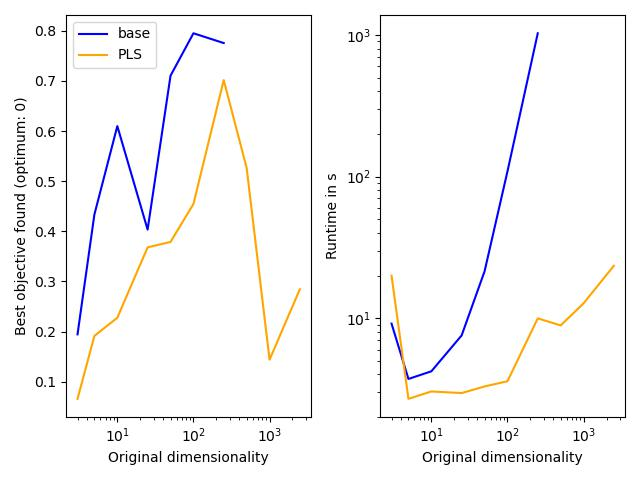
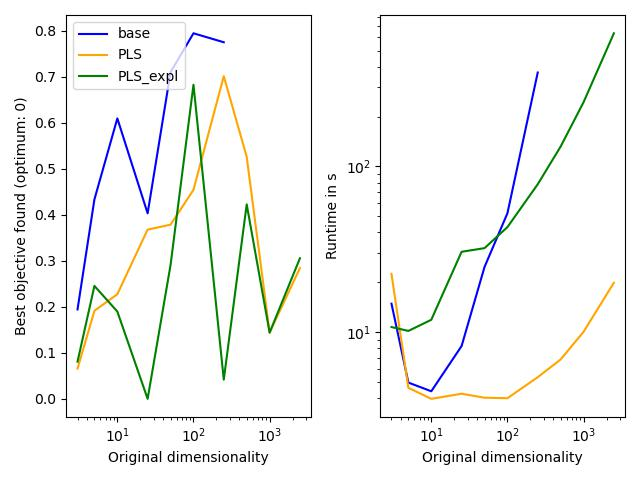
CUATRO_PLS_expl

diff --git a/CUATRO/samplers/sampling.py b/CUATRO/samplers/sampling.py
@@ -23,18 +23,57 @@ def sample_LHS(sim, bounds, N, rnd_seed = 1):
     
     return data_points, func_eval, g_eval, feas
 
-a = 0.1
-def sample_points_opt(center, radius, f, samples, bounds, N = 10): ## TODO: Check that this does not give too many points
+
+def sample_points_expl(center, f, samples, bounds, a = 0.1, N = 10): 
     # used for:
     # base, sampling_region, exploit_explore
     new_samples = np.array([center])
     
     while len(new_samples) < N + 1:
             
-        def closest_distance_edge(x):  
-            nearest_distance_to_sample = min([np.linalg.norm(x-s) for s in samples])
-            distance_to_edge = radius - np.linalg.norm(x-center)
-            nearest_distance = min(nearest_distance_to_sample, distance_to_edge/a)
+        def closest_distance_edge(x, a=a):  
+            nearest_distance_to_sample = min([np.linalg.norm(x-np.array(s)) for s in samples])
+            bounds_dist = min([min(x[i] - bounds[i,0] , bounds[i,1] - x[i]) \
+                        for i in range(len(center))])
+            nearest_distance = min(nearest_distance_to_sample, bounds_dist/a)
+            return -nearest_distance
+        
+        initial_points = LHS(bounds, min(2000, 100*len(bounds))).T
+        # print(initial_points[:4])
+        closest_distances = [closest_distance_edge(p) for p in initial_points]
+        ind_best_distance = np.argmin(closest_distances)
+        s_0 = initial_points[ind_best_distance]
+        # print(closest_distances[ind_best_distance], s_0)
+                
+        # s_i = minimize(closest_distance_edge, s_0, bounds=bounds, method='Powell', options={'maxfev': 2000}).x
+        # s_i = minimize(closest_distance_edge, s_0, bounds=bounds, method='Nelder-Mead', options={'maxfev': 2000}).x
+
+        s_i = s_0
+
+        new_samples = np.vstack((new_samples,s_i))
+        samples = np.vstack((samples,s_i))
+        # print(closest_distance_edge(s_i))
+    
+    new_samples = new_samples[1:] # Removing the center from samples
+    func_eval, g_eval, feas = sample_simulation(new_samples.tolist(), f)
+    
+    return new_samples, func_eval, g_eval, feas
+
+
+def sample_points_opt(center, radius, f, samples, bounds, a = 0.1, N = 10): 
+    # used for:
+    # base, sampling_region, exploit_explore
+    new_samples = np.array([center])
+    
+    while len(new_samples) < N + 1:
+            
+        def closest_distance_edge(x, a=a):  
+            nearest_distance_to_sample = min([np.linalg.norm(x-np.array(s)) for s in samples])
+            distance_to_edge = radius - np.linalg.norm(x-np.array(center))
+            bounds_dist = min([min(x[i] - bounds[i,0] , bounds[i,1] - x[i]) \
+                        for i in range(len(center))])
+            # nearest_distance = min(nearest_distance_to_sample, distance_to_edge/a, bounds_dist/a)
+            nearest_distance = nearest_distance_to_sample
             return -nearest_distance
         def bounds_const(x): 
             return min([min(x[i] - bounds[i,0] , bounds[i,1] - x[i]) \
@@ -59,13 +98,13 @@ def sample_points_opt(center, radius, f, samples, bounds, N = 10): ## TODO: Chec
     
     return new_samples, func_eval, g_eval, feas
 
-def sample_points_feas_samp(center, radius, f, samples, bounds, ineq_coeff, N = 10):
+def sample_points_feas_samp(center, radius, f, samples, bounds, ineq_coeff, a=0.1, N = 10):
     
     new_samples = np.array([center])
     
     while len(new_samples) < N + 1:
         
-        def closest_distance_edge(x):  
+        def closest_distance_edge(x, a=a):  
             nearest_distance_to_sample = min([np.linalg.norm(x-s) for s in samples])
             distance_to_edge = radius - np.linalg.norm(x-center)
             nearest_distance = min(nearest_distance_to_sample, distance_to_edge/a)
@@ -106,7 +145,7 @@ def sample_points_feas_samp(center, radius, f, samples, bounds, ineq_coeff, N = 
     
     return new_samples, func_eval, g_eval, feas
 
-def sample_points_TIS(center, radius, f, samples, bounds, ineq_coeff, N = 10, \
+def sample_points_TIS(center, radius, f, samples, bounds, ineq_coeff, a=0.1, N = 10, \
                       ineq = False):
     
     new_samples = np.array([center])
@@ -116,7 +155,7 @@ def sample_points_TIS(center, radius, f, samples, bounds, ineq_coeff, N = 10, \
         # until the length is N+1 and then remove the centre
         while len(new_samples) < N + 1:
             
-            def closest_distance_edge(x):  
+            def closest_distance_edge(x, a=a):  
                 nearest_distance_to_sample = min([np.linalg.norm(x-s) for s in samples])
                 distance_to_edge = radius - np.linalg.norm(x-center)
                 nearest_distance = min(nearest_distance_to_sample, distance_to_edge/a)
@@ -158,7 +197,7 @@ def sample_points_TIS(center, radius, f, samples, bounds, ineq_coeff, N = 10, \
     
     return new_samples, func_eval, g_eval, feas
 
-def sample_points_TIP(center, radius, f, samples, ineq_list, bounds, N = 10, \
+def sample_points_TIP(center, radius, f, samples, ineq_list, bounds, a=0.1, N = 10, \
                       ineq_active = False):
     
     # Because we initialise new_samples with the center, we find new_samples
@@ -167,7 +206,7 @@ def sample_points_TIP(center, radius, f, samples, ineq_list, bounds, N = 10, \
     
     while len(new_samples) < N + 1:
         
-        def closest_distance_edge(x):  
+        def closest_distance_edge(x, a=a):  
             nearest_distance_to_sample = min([np.linalg.norm(x-s) for s in samples])
             distance_to_edge = radius - np.linalg.norm(x-center)
             nearest_distance = min(nearest_distance_to_sample, distance_to_edge/a)

diff --git a/CUATRO/optimizer/implementations/dim_red_heuristics/CUATRO_PLS_explore.py b/CUATRO/optimizer/implementations/dim_red_heuristics/CUATRO_PLS_explore.py
@@ -6,7 +6,7 @@ Created on Sun Jan 17 21:12:38 2021
 """
 
 import CUATRO.utilities as ut
-from CUATRO.samplers.sampling import sample_LHS, sample_points
+from CUATRO.samplers.sampling import sample_LHS, sample_points, sample_points_expl
 from CUATRO.minimise_methods.minimise import minimise, minimise_PLS
 from CUATRO.optimizer.CUATRO_optimizer_use import CUATRO
 
@@ -23,7 +23,7 @@ from typing import Optional
 
 warnings.filterwarnings('ignore')
 
-class CUATRO_PLS(CUATRO):
+class CUATRO_PLS_expl(CUATRO):
     def __init__(self):
         super().__init__()
         
@@ -36,18 +36,20 @@ class CUATRO_PLS(CUATRO):
         max_f_eval: int = 100,
         rnd: int = 1,
         n_pls: int = None, # effective dimensionality inputted to pls
+        n_t: int = 5,
         prior_evals: dict = {'X_samples_list' : [], 'f_eval_list': [], 'g_eval_list': [], 'bounds': [], 'x0_method': 'best eval'}
     ):
 
         if not (constraints is None or constraints in [[], [0]]):
             raise NotImplementedError("CUATRO_PLS is not yet implemented for explicit constraint handling \n Use soft penalizations to handle constraints and set constraints to None")
 
-        if prior_evals['g_eval_list']!= []:
-            raise NotImplementedError("CUATRO_PLS is not yet implemented for explicit constraint handling \n g_eval_list in prior_evals should be an empty list")
-    
+        traj_budget = int(max_f_eval/n_t)
 
         if n_pls is None: # if no knowledge about n_e is given, use heuristics to determine effective dim.
             n_pls = int(max_f_eval / 10)
+
+        if prior_evals['g_eval_list']!= []:
+            raise NotImplementedError("CUATRO_PLS is not yet implemented for explicit constraint handling \n g_eval_list in prior_evals should be an empty list")
 
         if (len(prior_evals['X_samples_list']) == 0) and (not (isinstance(x0, np.ndarray))):
             raise ValueError("You've specified neither prior function evaluations nor a valid x0 array")
@@ -220,6 +222,9 @@ class CUATRO_PLS(CUATRO):
     
         # t1 = time.process_time() 
         # t_it = []; t_center_select = []; t_sample = []; t_minimise = []
+
+        traj_counter = 0
+
         while ((len(f_eval_list) - len(prior_evals['f_eval_list'])) < max_f_eval - 1)  and (radius > self.tolerance):
             # ti = time.process_time()
             N_evals = len(f_eval_list) - len(prior_evals['f_eval_list'])
@@ -348,6 +353,53 @@ class CUATRO_PLS(CUATRO):
             # t_minimise += [time.process_time()-tiii]  
             N += 1
             # t_it += [time.process_time() - ti] # Processing time at each iteration
+
+            if (len(f_eval_list) - len(prior_evals['f_eval_list'])) >= (traj_counter+1)*traj_budget:
+                
+                traj_counter += 1
+                # compute radius of sphere encompassing all bounds from center of search space
+                bounds_dummy = np.array([(b[1]-b[0])/2 for b in bounds])
+                two_biggest = np.sort(bounds_dummy)[::-1][:2]
+                dummy_radius = np.sqrt(two_biggest[0]**2+two_biggest[1]**2) if len(bounds) >= 2 else two_biggest[0]
+                # sample new starting point that is furthest away from current samples but not too close to the bounds
+                center_dummy = np.array([(b[1]+b[0])/2 for b in bounds])
+
+                X_samples, y_samples, g_eval, feas_samples =  sample_points_expl(center_dummy,  sim, \
+                                                                            X_samples_list, \
+                                                                            bounds, a=1, N = 1)
+
+                center = X_samples.squeeze()
+                center = [float(c) for c in center]
+
+                feas_new_X = X_samples.copy()[feas_samples == 1]
+                infeas_new_X = X_samples.copy()[feas_samples != 1]
+
+                no_of_feas_X += len(feas_new_X)
+                no_of_infeas_X += len(infeas_new_X)
+
+                X_samples_list += X_samples.tolist()
+                f_eval_list += y_samples
+                g_eval_list += g_eval
+
+                radius = self.init_radius
+
+                X_in_trust, y_in_trust, g_in_trust, feas_in_trust = ut.samples_in_trust(center, radius, 
+                                                                    X_samples_list, f_eval_list, g_eval_list)
+
+                old_trust = center
+                old_f = float(y_samples[0])
+
+                # print(X_samples, center_dummy, dummy_radius, bounds[0])
+
+                # print(len(X_samples_list))
+        
+                # import matplotlib.pyplot as plt
+                # plt.clf()
+                # plt.scatter(np.array(X_samples_list)[:-1,0], np.array(X_samples_list)[:-1,1], c='k')
+                # plt.scatter(center[0], center[1], c='r')
+                # plt.show()
+
+
 
         N_evals = len(f_eval_list) - len(prior_evals['f_eval_list'])
         radius_list += [radius] 

diff --git a/test/test_pls.py b/test/test_pls.py
@@ -65,13 +65,14 @@ conv_rad = 0.01
 bounds = np.array([(-5.0, 5.0) for i in range(N_high)])
 x0 = np.array([(b[0] + b[1])/2 for b in bounds]) 
 init_radius = np.max([(b[1] - b[0])/5 for b in bounds]) ## change back
+n_t = 5
 beta = 1e-3**(1/N)
 N_min_s = N/10
 tol= 1e-8
 
 CUATRO_inst = CUATRO(sampling='g', explore=None, method='local', N_min_samples=6, beta_red=beta, tolerance=tol, init_radius=init_radius, dim_red=True)
+CUATRO_PLS_expl = CUATRO(sampling='base', explore=None, method='local', N_min_samples=6, beta_red=beta, tolerance=tol, init_radius=init_radius, dim_red=True)
 CUATRO_bench = CUATRO(sampling='g', explore=None, method='local', N_min_samples=N_min_s, beta_red=beta, tolerance=tol, init_radius=init_radius)
-
 
 f_RB = partial(sim, N_high)
 f_quadr = partial(sim_quadr, N_high)
@@ -85,7 +86,6 @@ class TestConvergence_PLS_CUATRO(unittest.TestCase):
         res_bench = CUATRO_bench.run_optimiser(sim=f_RB, x0=x0, bounds=bounds, max_f_eval=N, rnd=0)
         print(f"Best objective found: {res['f_best_so_far'][-1]} compared to baseline CUATRO {res_bench['f_best_so_far'][-1]}")
         self.assertTrue((res['f_best_so_far'][-1]  < res_bench['f_best_so_far'][-1]), f"CUATRO_PLS did not outperform CUATRO_g at high dimension: {res['f_best_so_far'][-1]} > {res_bench['f_best_so_far'][-1]}")
-    
 
 class TestConvergence_PLS_quadr(unittest.TestCase):   
     def runTest(self):
@@ -95,6 +95,13 @@ class TestConvergence_PLS_quadr(unittest.TestCase):
         res = CUATRO_inst.run_optimiser(sim=f_quadr, x0=x0, bounds=bounds, max_f_eval=N, rnd=0, n_pls=N_pls)
         print(f"Objective: {res['f_best_so_far'][-1]}")
         self.assertTrue((abs(res['f_best_so_far'][-1] - optimum)**2 < conv_rad), f"CUATRO_g did not converge to {conv_rad} accuracy for a budget of {N}; best_f: {res['f_best_so_far'][-1]}, optimum: {optimum}")
-        
-        
+
+class TestConvergence_PLS_expl_quadr(unittest.TestCase):   
+    def runTest(self):
+        """
+        check whether convergence is achieved for the quadratic test function in high dimensions
+        """  
+        res = CUATRO_PLS_expl.run_optimiser(sim=f_quadr, x0=x0, bounds=bounds, max_f_eval=N, rnd=0, n_pls=N_pls, n_t=n_t)
+        print(f"Objective: {res['f_best_so_far'][-1]}")
+        self.assertTrue((abs(res['f_best_so_far'][-1] - optimum)**2 < conv_rad), f"CUATRO_g did not converge to {conv_rad} accuracy for a budget of {N}; best_f: {res['f_best_so_far'][-1]}, optimum: {optimum}")
 

diff --git a/CUATRO/demos/run_PLS.py b/CUATRO/demos/run_PLS.py
@@ -25,11 +25,13 @@ fig, (ax1, ax2) = plt.subplots(1, 2)
 perf_res = {
     'base': [],
     'PLS': [],
+    'PLS_expl': [],
 }
 
 time_res = {
     'base': [],
     'PLS': [],
+    'PLS_expl': [],
 }
 
 for dim in dims:
@@ -42,11 +44,22 @@ for dim in dims:
     x0 = np.array([0 for _ in range(dim)])
 
     CUATRO_PLS = CUATRO(sampling='g', explore=None, method='local', N_min_samples=N_min_PLS, beta_red=beta, tolerance=tol, init_radius=init_radius, dim_red=True)
+    CUATRO_PLS_expl = CUATRO(sampling='base', explore=None, method='local', N_min_samples=N_min_PLS, beta_red=beta, tolerance=tol, init_radius=init_radius, dim_red=True)
     CUATRO_bench = CUATRO(sampling='g', explore=None, method='local', N_min_samples=N_min_g, beta_red=beta, tolerance=tol, init_radius=init_radius)
 
     t0 = perf_counter()
     res_PLS = CUATRO_PLS.run_optimiser(sim=obj, x0=x0, bounds=bounds, max_f_eval=budget, rnd=0, n_pls=n_e)
     t1=perf_counter()
+
+    perf_res['PLS'] += [res_PLS['f_best_so_far'][-1]]
+    time_res['PLS'] += [t1-t0]
+
+    t0 = perf_counter()
+    res_PLS_expl = CUATRO_PLS_expl.run_optimiser(sim=obj, x0=x0, bounds=bounds, max_f_eval=budget, rnd=0, n_pls=n_e)
+    t1 = perf_counter()
+
+    perf_res['PLS_expl'] += [res_PLS_expl['f_best_so_far'][-1]]
+    time_res['PLS_expl'] += [t1-t0]
 
     if dim < 300:
         res_g = CUATRO_bench.run_optimiser(sim=obj, x0=x0, bounds=bounds, max_f_eval=budget, rnd=0)
@@ -55,13 +68,11 @@ for dim in dims:
         perf_res['base'] += [res_g['f_best_so_far'][-1]]
         time_res['base'] += [t2-t1]
 
-    perf_res['PLS'] += [res_PLS['f_best_so_far'][-1]]
-    time_res['PLS'] += [t1-t0]
-
     print(f'Done with dim {dim}')
 
 ax1.plot(dims[:len(perf_res['base'])], perf_res['base'], label='base', c='blue')
 ax1.plot(dims, perf_res['PLS'], c='orange', label='PLS')
+ax1.plot(dims, perf_res['PLS_expl'], label='PLS_expl', c='green')
 ax1.legend()
 ax1.set_xscale('log')
 ax1.set_xlabel('Original dimensionality')
@@ -69,6 +80,7 @@ ax1.set_ylabel('Best objective found (optimum: 0)')
 
 ax2.plot(dims[:len(time_res['base'])], time_res['base'], c='blue')
 ax2.plot(dims, time_res['PLS'], c='orange')
+ax2.plot(dims, time_res['PLS_expl'], label='PLS_expl', c='green')
 ax2.set_xscale('log')
 ax2.set_yscale('log')
 ax2.set_xlabel('Original dimensionality')

diff --git a/CUATRO/optimizer/CUATRO_optimizer_use.py b/CUATRO/optimizer/CUATRO_optimizer_use.py
@@ -173,6 +173,7 @@ class CUATRO():
         max_f_eval: int = 100,
         rnd: int = 1,
         n_pls: int = None,
+        n_t: int = 5,
         prior_evals: dict = {'X_samples_list' : [], 'f_eval_list': [], 'g_eval_list': [], 'bounds': [], 'x0_method': 'best eval'}
     ):
         
@@ -181,8 +182,12 @@ class CUATRO():
             self.init_radius = new_rad
 
         if self.dim_red:
-            from CUATRO.optimizer.implementations.dim_red_heuristics.CUATRO_PLS import CUATRO_PLS
-            output = CUATRO_PLS().optimise(sim, x0, constraints, bounds, max_f_eval, rnd, n_pls, prior_evals) 
+            if self.sampling=='g':
+                from CUATRO.optimizer.implementations.dim_red_heuristics.CUATRO_PLS import CUATRO_PLS
+                output = CUATRO_PLS().optimise(sim, x0, constraints, bounds, max_f_eval, rnd, n_pls, prior_evals) 
+            else:
+                from CUATRO.optimizer.implementations.dim_red_heuristics.CUATRO_PLS_explore import CUATRO_PLS_expl
+                output = CUATRO_PLS_expl().optimise(sim, x0, constraints, bounds, max_f_eval, rnd, n_pls, n_t, prior_evals) 
 
         elif self.sampling == 'g':
             if self.explore != None:
